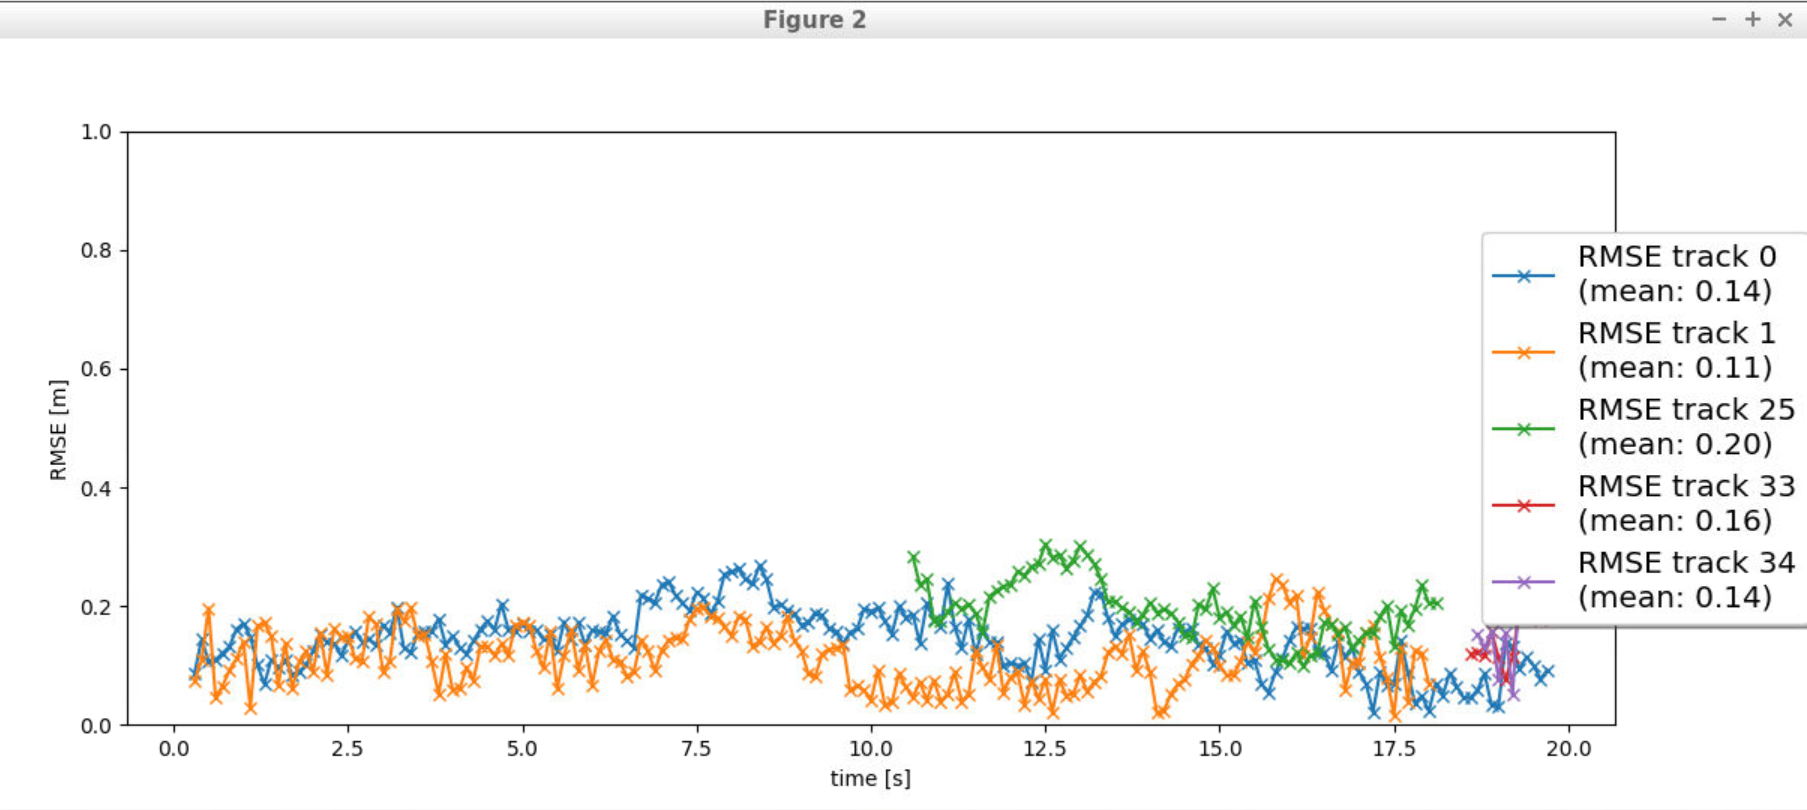
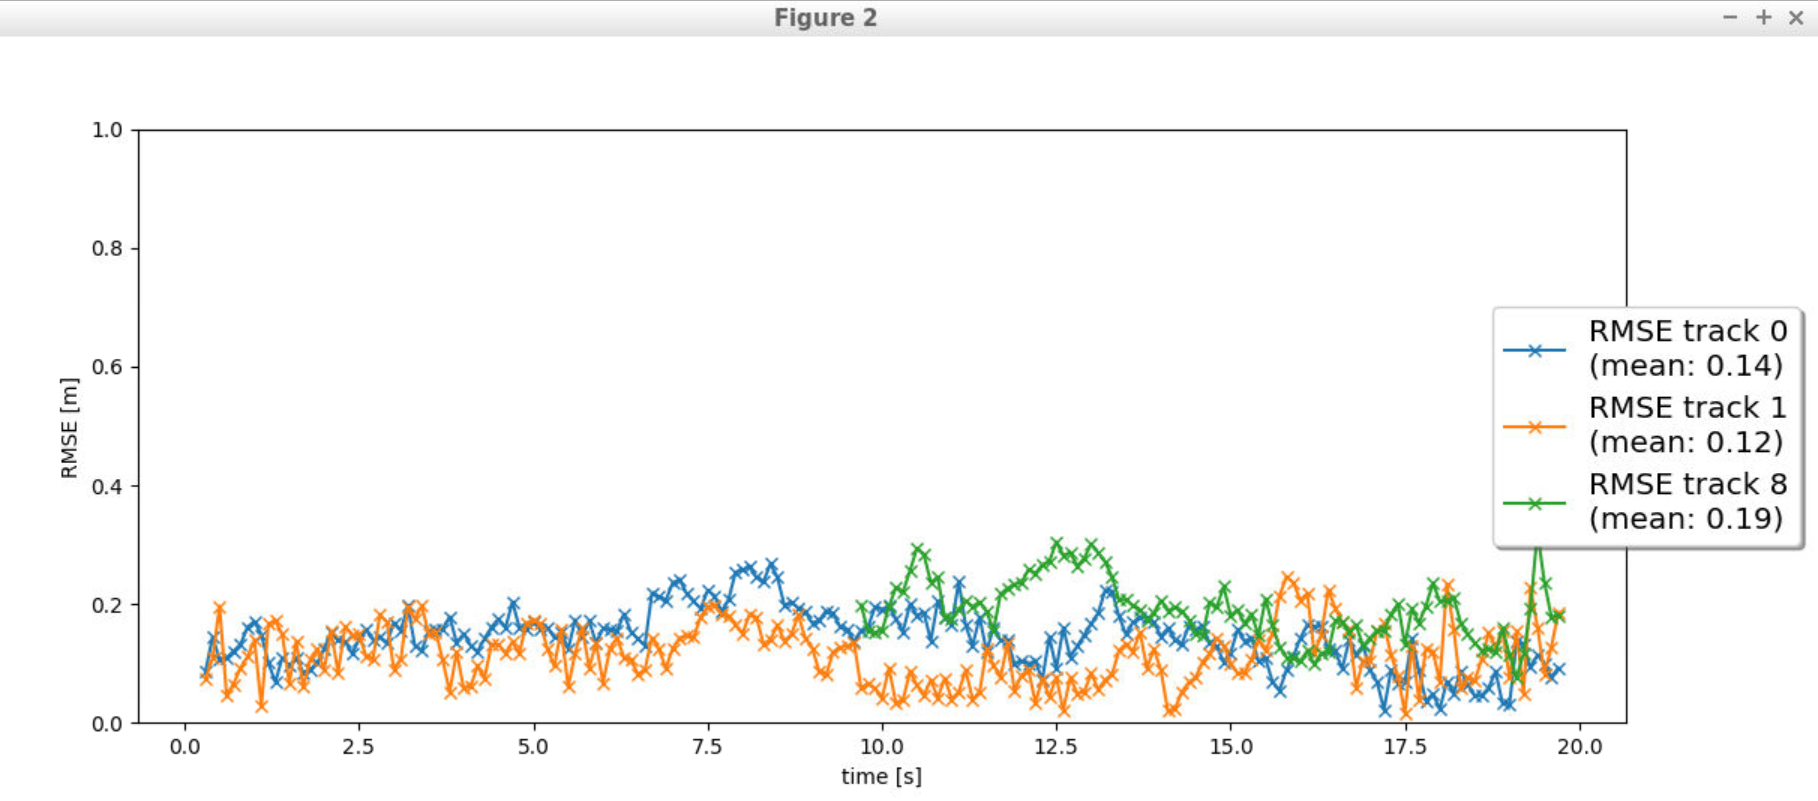
Added: Final Implementation of Step 4

Changed region(s): [[0.031, 0.1561, 1.0, 0.9988], [0.0, 0.0, 1.0, 0.0624]]

diff --git a/student/measurements.py b/student/measurements.py
@@ -20,7 +20,7 @@ PACKAGE_PARENT = '..'
 SCRIPT_DIR = os.path.dirname(os.path.realpath(os.path.join(os.getcwd(), os.path.expanduser(__file__))))
 sys.path.append(os.path.normpath(os.path.join(SCRIPT_DIR, PACKAGE_PARENT)))
 import misc.params as params 
-
+import math
 class Sensor:
     '''Sensor class including measurement matrix'''
     def __init__(self, name, calib):
@@ -47,8 +47,15 @@ class Sensor:
         # TODO Step 4: implement a function that returns True if x lies in the sensor's field of view, 
         # otherwise False.
         ############
-
-        return True
+        pos_veh = np.ones((4, 1)) # homogeneous coordinates
+        pos_veh[0:3] = x[0:3] 
+        pos_sens = self.veh_to_sens*pos_veh # transform from vehicle to lidar coordinates
+        x,y,z = np.squeeze(pos_sens.A)[:3]
+        angle = math.atan2(y, x)
+        if angle >= self.fov[0] and angle <=self.fov[1]:
+            return True
+        else:
+            return False
         
         ############
         # END student code
@@ -70,8 +77,21 @@ class Sensor:
             # - make sure to not divide by zero, raise an error if needed
             # - return h(x)
             ############
-
-            pass
+            pos_veh = np.ones((4, 1)) # homogeneous coordinates
+            pos_veh[0:3] = x[0:3] 
+            
+            pos_sens = self.veh_to_sens*pos_veh 
+            x, y, z = pos_sens[0:3]
+            # - project from camera to image coordinates
+            if x <= 0:
+                z_pred = np.array([-100, -100])
+            else:   
+                u = self.c_i - self.f_i * y/x
+                v = self.c_j - self.f_j * z/x
+                z_pred = np.array([u, v])
+                
+            z_pred = np.matrix(z_pred.reshape(-1, 1))
+            return z_pred
         
             ############
             # END student code
@@ -115,9 +135,9 @@ class Sensor:
         # TODO Step 4: remove restriction to lidar in order to include camera as well
         ############
         
-        if self.name == 'lidar':
-            meas = Measurement(num_frame, z, self)
-            meas_list.append(meas)
+        # if self.name == 'lidar':
+        meas = Measurement(num_frame, z, self)
+        meas_list.append(meas)
         return meas_list
         
         ############
@@ -155,8 +175,12 @@ class Measurement:
             ############
             # TODO Step 4: initialize camera measurement including z and R 
             ############
+            self.z = np.zeros((sensor.dim_meas,1)) # measurement vector
+            self.z[:2, 0] = z[:2]
+            self.sensor = sensor # sensor that generated this measurement
+            self.R = np.matrix([[params.sigma_cam_i**2, 0], # measurement noise covariance matrix
+                                [0, params.sigma_cam_j**2]])
 
-            pass
         
             ############
             # END student code

diff --git a/student/association.py b/student/association.py
@@ -45,10 +45,8 @@ class Association:
         for track in track_list:
             res = []
             for measure in meas_list:
-                MHD = self.MHD(track, measure, KF)
-                sensor = measure.sensor
-                if (self.gating(MHD, sensor)):
-                    res.append(MHD)
+                if (self.gating(self.MHD(track, measure, KF), measure.sensor)):
+                    res.append(self.MHD(track, measure, KF))
                 else:
                     res.append(np.inf)
             association_matrix.append(res)
@@ -104,21 +102,20 @@ class Association:
         # TODO Step 3: return True if measurement lies inside gate, otherwise False
         ############
         df = None
-        gate_val = None
-        if (sensor.name == 'lidar'):
-            #While fine tuning the algorihm, we find that it's better to have a larger gate threshold for lidar 
-            #which means current lidar noise is a bit underestimated
-            df = 2 
-            gate_val = params.gating_threshold
+        gate_val = chi2.ppf(params.gating_threshold, sensor.dim_meas)
+        # if (sensor.name == 'lidar'):
+        #     #While fine tuning the algorihm, we find that it's better to have a larger gate threshold for lidar 
+        #     #which means current lidar noise is a bit underestimated
+        #     df = 2 
         
-        if (sensor.name == 'camera'):
-            gate_val = params.gating_threshold
-            df = 1
-        x= MHD * MHD
-        per = chi2.cdf(x, df)
-        if (sensor.name == 'lidar'):
-            print("lidar chisqr = {}".format(per))
-        if (per <  gate_val):
+        # if (sensor.name == 'camera'):
+        #     # gate_val = params.gating_threshold
+        #     df = 1
+        # x= MHD * MHD
+        # per = chi2.cdf(x, df)
+        # if (sensor.name == 'lidar'):
+        #     print("lidar chisqr = {}".format(per))
+        if (MHD <  gate_val):
             return True
         else:
             return False        
@@ -160,7 +157,7 @@ class Association:
                 continue
             
             # Kalman update
-            print('update track_', track.id, 'with', meas_list[ind_meas].sensor.name, 'measurement', ind_meas)
+            print('update track', track.id, 'with', meas_list[ind_meas].sensor.name, 'measurement', ind_meas)
             KF.update(track, meas_list[ind_meas])
             
             # update score and track state 
@@ -173,4 +170,4 @@ class Association:
         manager.manage_tracks(self.unassigned_tracks, self.unassigned_meas, meas_list)
         
         for track in manager.track_list:            
-            print('track_', track.id, 'score =', track.score)
+            print('track', track.id, 'score =', track.score)
